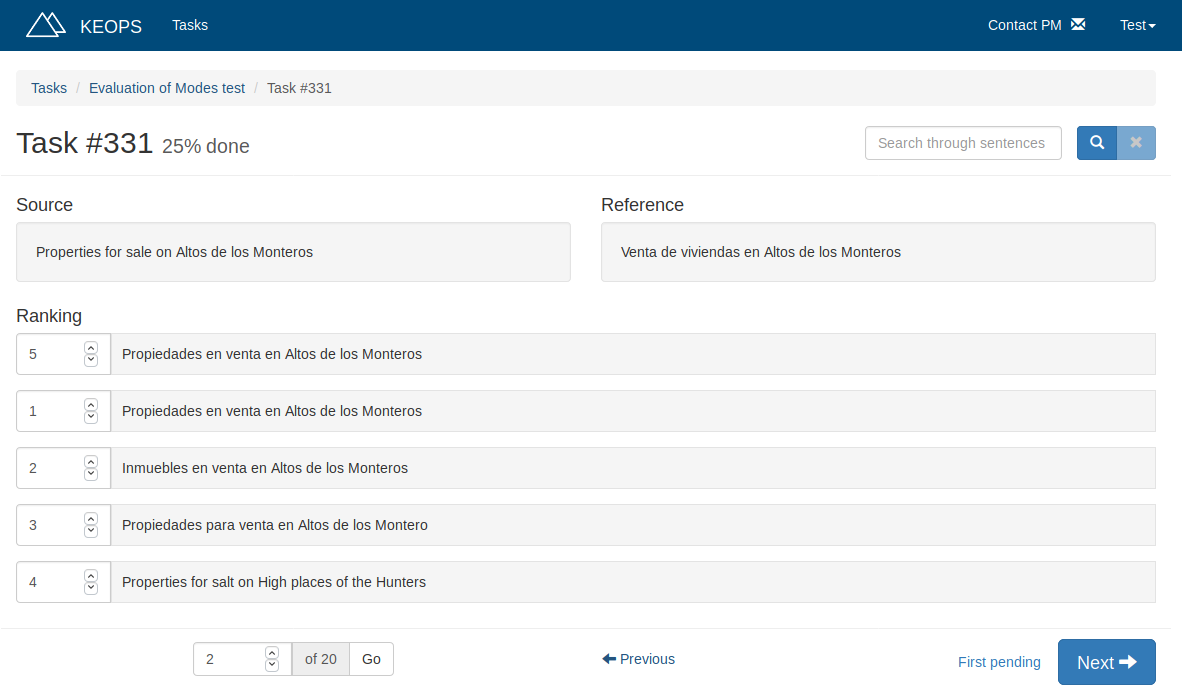
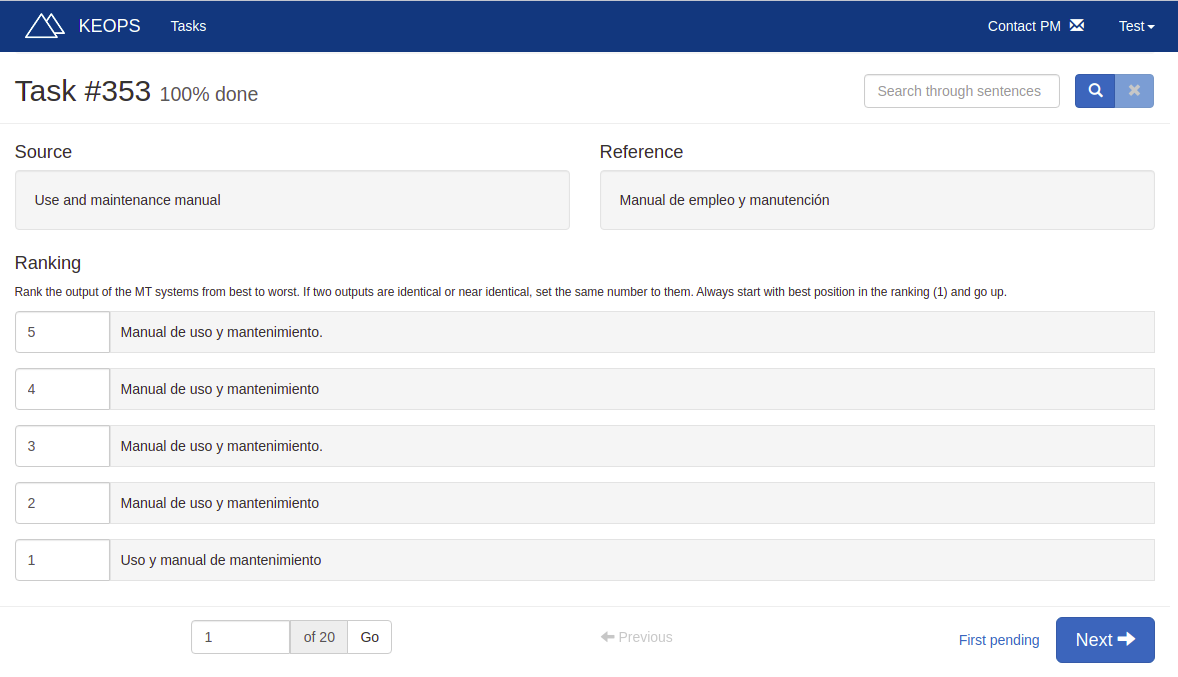
Improving guides

diff --git a/evaluators.md b/evaluators.md
@@ -14,7 +14,7 @@ If you already have your evaluator account, sign in to use KEOPS. You can do thi
 
 ![Home page](screenshots/guide/home.png)
 
-This will take you to the _Sign in_ screen, where you just have to fill the fields with your email and password.
+This will take you to the _Sign in_ screen, where you have to fill the fields with your email and password.
 
 ![Sign in screen](screenshots/guide/login.png)
 
@@ -22,6 +22,12 @@ This will take you to the _Sign in_ screen, where you just have to fill the fiel
 When you are invited to KEOPS, you will get an invitation link. If you follow that link, you will be able to sign up.
 
 Fill the required fields and click on _Sign up_. This will create your evaluator account. From now on, administrators can assign you tasks.
+
+Instead of an invitation link, you could get an invitation token. This token will look like this:
+
+    5d4404fb9f66a
+
+On the Sign up screen, fill the _Access Token_ field with this token.
 
 ![Sign up screen](screenshots/guide/signup.png)
 
@@ -128,7 +134,7 @@ Label filtering is not available in this mode, since labels are not used.
 #### Ranking
 ![Ranking screen](/screenshots/guide/ranking.png)
 
-When performing this kind of evaluation, a source text and a reference translation is presented to you. Then, you must rank a set of candidate translations. The first position belongs to the best translation and, the last position, to the worst one.
+When performing this kind of evaluation, a source text and a reference translation is presented to you. Then, you must rank a set of candidate translations from best to worst. If two translations are identical, set the same number to them. Always start with best position in the ranking (1).
 
 When you search in this mode, please note that label filtering is not available because labels are not used.
 
@@ -142,7 +148,7 @@ __Keyboard__
 
 Press the numbers of the keyboard to order the translations. When you press the first number, the first sentence will be assigned to that position. 
 
-Then, you will automatically jump to the next translation. Keep on pressing numbers to assign a position to every translation. If you ever need to move to a translation manually, use the + and - keys. Press Enter to save the ranking and go to the next sentence. Alternatively, you can type the sentence position in the field on its left.
+Then, you will automatically jump to the next translation. Keep on pressing numbers to assign a position to every translation. If you ever need to move to a translation manually, use the <kbd>+</kdb> and <kbd>-</kbd> keys. Press Enter to save the ranking and go to the next sentence. Alternatively, you can type the sentence position in the field on its left.
 
 ## Once you're done
 The Project Manager will be notified via mail when you finish a task.
@@ -166,7 +172,7 @@ Whenever you run into a problem, an issue or you just have a doubt, you can get 
 
 Click on the _Contact PM_ link on the top of the evaluation screen to get in touch with the Project Manager of that task. Use this to discuss issues and doubts about a particular task.
 
-Click on the _Contact_ link on the footer to contact support. Use this option for any other subjects (platform-related errors, doubts about how to use KEOPS...)
+Click on the _Contact support_ link on the top right menu for any other subjects (platform-related errors, doubts about how to use KEOPS...)
 
 ## Let us know what you think
 If you wish to share your thoughts about this product, we'll be happy to hear from you by filling the form available at the end of a task evaluation.

diff --git a/administrators.md b/administrators.md
@@ -71,7 +71,7 @@ your current projects and their tasks.
 <a name="modes"></a>
 
 ## Evaluation modes
-A task has always an evaluation mode. This will change the way you evalute the sentences.
+A task has always an evaluation mode. This will change the way evaluators review the sentences.
 
 <a name="validation"></a>
 
@@ -138,9 +138,7 @@ When performing this kind of evaluation, a source text and a reference translati
 <a name="corpora"></a>
 
 ## Managing corpora
-A set of sentences is called a corpus. Corpora may have a different structure depending on the evaluation mode they are meant to be used in.
-
-KEOPS lets you upload, preview and assign corpora for evaluation. 
+A set of sentences is called a corpus. Corpora may have a different structure depending on the evaluation mode they are meant to be used in. KEOPS lets you upload, preview and assign corpora for evaluation. 
 
 ### Uploading corpora
 ![Corpora upload screen](/screenshots/guide/admin/upload.png)
@@ -205,7 +203,7 @@ Use the Invitations tab on the Management page to invite a user. You only need t
 Once the user accepts the invitation and signs up, you can modify their information:
 * __Name__: the name of the user.
 * __Email__: the email address of the user.
-* __Languages__: the languages which the user has knowledge of.
+* __Languages__: the languages the user has knowledge of.
 * __Role__: whether this user is an evaluator or an administrator.
 * __Active__: whether the user can sign in.
 
@@ -218,7 +216,7 @@ Once the user accepts the invitation and signs up, you can modify their informat
 A comprehensive list of languages is already provided when KEOPS is installed. However, you may add additional languages using the _Add language_ action on the _Languages_ tab of the Managment screen.
 
 When adding a new language, you are asked to type a language code and a language name.
-* The language code must have the form of a [ISO 639-1 code](https://www.loc.gov/standards/iso639-2/php/code_list.php).
+* The language code must have the form of an [ISO 639-1 code](https://www.loc.gov/standards/iso639-2/php/code_list.php).
 * The language name can be any string which describes the language (for example, "Spanish")
 
 <a name="feedback"></a>
